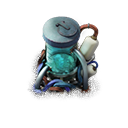
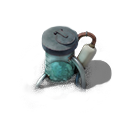
1.3.4-4 reworked graphics, balancing

Changed region(s): [[0.2188, 0.125, 0.875, 0.7812]]

diff --git a/README.md b/README.md
@@ -1,5 +1,4 @@
 # sun_heat_and_cooling
 
-beta
-
-Cooler graphics mainly uses an asset from Periodic Madness by Mr.SmoothieHuman (MIT)
+Cooler 1 use graphics from Khemia (by GabeWithGlasses, MIT)
+Cooler 2 use graphics from Hurricane046 (CC BY) and ADKrig (CC BY)
